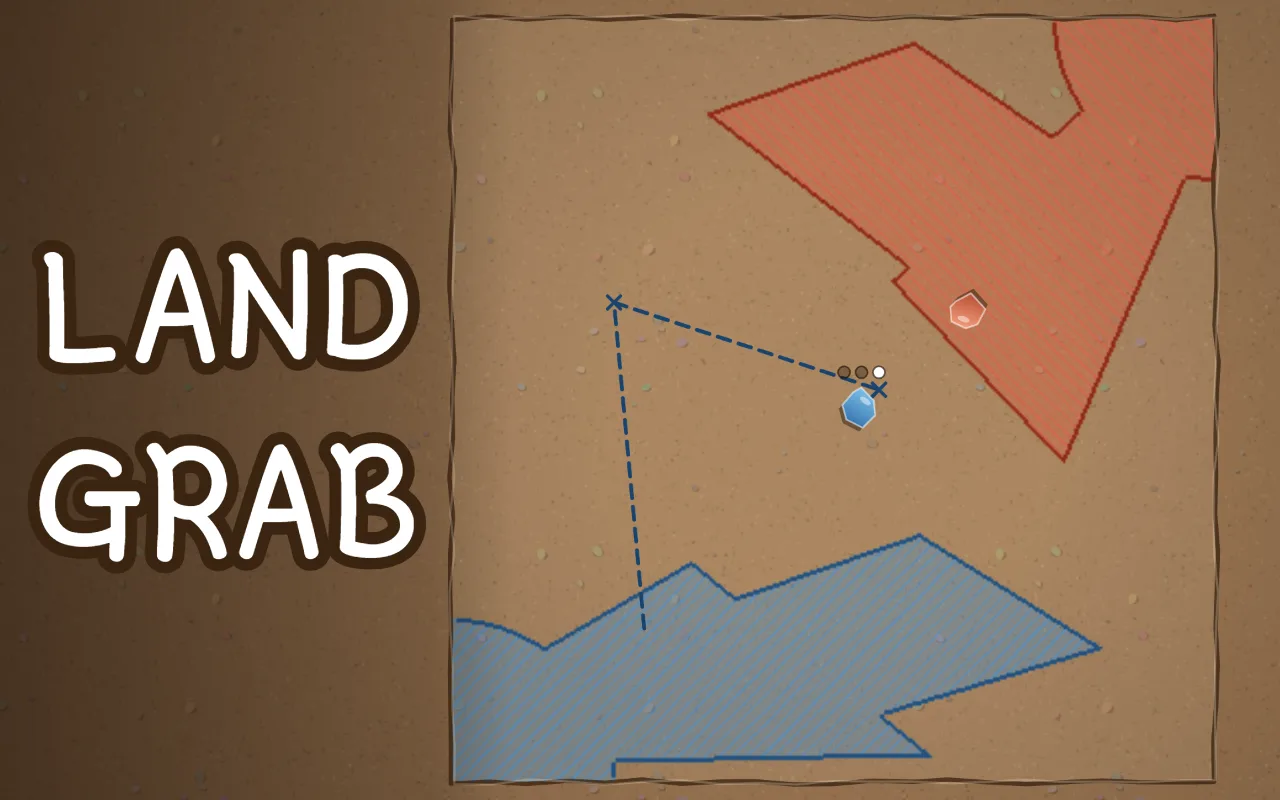
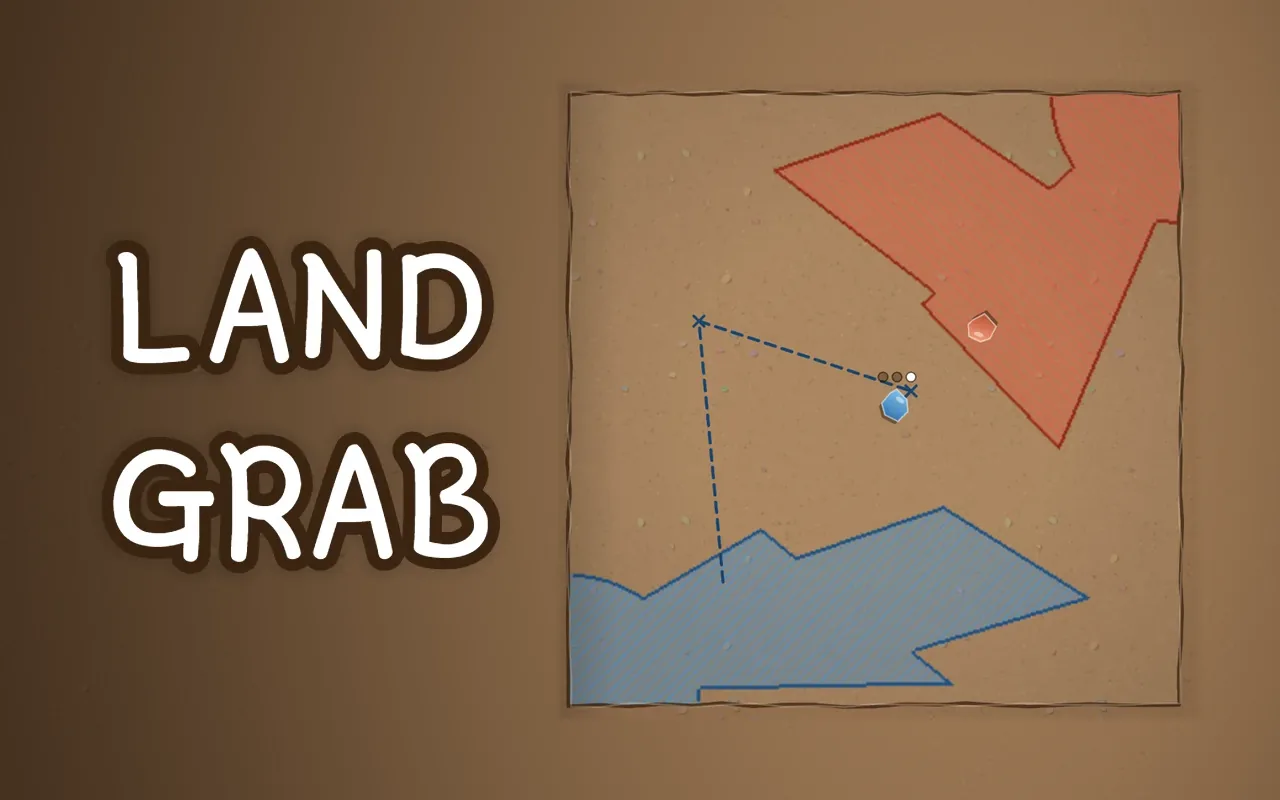
땅따먹기 카드 표지 다시 짜기: 제목이 왼쪽 끝에 붙어 카드(16/11)에서 잘리던 것 — 제목은 원래 크기로 안쪽에, 판은 0.8배로 오른쪽에 (한·영, ?v=2)

diff --git a/games/flash/index.html b/games/flash/index.html
@@ -151,7 +151,7 @@
       <div class="grid">
       <!-- CARDS:start -->
         <a class="mini" href="/games/flash/ttang/">
-          <span class="shot"><img src="/assets/ttang-shot.webp?v=1" alt="흙마당에 그린 네모 판에서 파란 땅과 빨간 땅이 모서리부터 넓어져 있고 파란 사금파리가 점선을 그리며 집으로 돌아가려 하며 땅따먹기 제목이 있다" width="800" height="500" loading="lazy"></span>
+          <span class="shot"><img src="/assets/ttang-shot.webp?v=2" alt="흙마당에 그린 네모 판에서 파란 땅과 빨간 땅이 모서리부터 넓어져 있고 파란 사금파리가 점선을 그리며 집으로 돌아가려 하며 땅따먹기 제목이 있다" width="800" height="500" loading="lazy"></span>
           <span class="mbody"><b>땅따먹기</b><i>1인용·2인용 땅따먹기게임</i></span>
         </a>
         <a class="mini" href="/games/flash/bangwi/">
@@ -208,7 +208,7 @@
 <p>열자마자 시작합니다. 규칙이 한 줄로 끝납니다. 처음은 쉽고 갈수록 어려워집니다. 한 판이 짧아 언제든 그만둘 수 있습니다. 기록은 브라우저에만 남습니다.</p>
 <h2>게임별 한 줄</h2>
 <ul class="flash-lines">
-<li><a href="/games/flash/ttang/"><img src="/assets/ttang-shot.webp?v=1" alt="" width="120" height="75" loading="lazy"><b>땅따먹기</b></a><span>돌을 세 번 튕겨 집으로 돌아오면 지나간 자리가 내 땅이 됩니다. 컴퓨터와 하거나 둘이서 합니다.</span></li>
+<li><a href="/games/flash/ttang/"><img src="/assets/ttang-shot.webp?v=2" alt="" width="120" height="75" loading="lazy"><b>땅따먹기</b></a><span>돌을 세 번 튕겨 집으로 돌아오면 지나간 자리가 내 땅이 됩니다. 컴퓨터와 하거나 둘이서 합니다.</span></li>
 <li><a href="/games/flash/bangwi/"><img src="/assets/bangwi-shot.webp?v=1" alt="" width="120" height="75" loading="lazy"><b>방귀 뀌기</b></a><span>누르고 있는 동안 몰래 방귀를 뀝니다. 앞사람이 뒤돌아볼 때 뀌면 들킵니다.</span></li>
 <li><a href="/games/flash/omok/"><img src="/assets/omok-shot.webp?v=1" alt="" width="120" height="75" loading="lazy"><b>오목</b></a><span>15줄 판에서 다섯 알을 먼저 이으면 이깁니다. 이길 때마다 한 단계씩 올라 9단까지 가고, 둘이서도 둡니다.</span></li>
 <li><a href="/games/flash/baduk/"><img src="/assets/baduk-shot.webp?v=1" alt="" width="120" height="75" loading="lazy"><b>바둑</b></a><span>13줄 바둑판에서 한 판 이길 때마다 한 단계씩 올라 9단까지 갑니다. 둘이서도 둡니다.</span></li>

diff --git a/games/ueno/index.html b/games/ueno/index.html
@@ -135,7 +135,7 @@
       <li><a href="/games/mini/night-study/"><img src="/assets/night-study-shot.webp" alt="" width="96" height="60" loading="lazy"><span class="related-txt"><b>야간자율학습</b><span>폐교 탈출 공포게임</span></span><em>플레이 ▸</em></a></li>
       <li><a href="/games/castaway/"><img src="/assets/castaway-shot.webp" alt="" width="96" height="60" loading="lazy"><span class="related-txt"><b>망망대해</b><span>뗏목 낚시 생존게임</span></span><em>플레이 ▸</em></a></li>
       <li><a href="/games/skyrider/"><img src="/assets/skyrider-shot.webp" alt="" width="96" height="60" loading="lazy"><span class="related-txt"><b>스카이 라이더</b><span>하늘 오토바이 배달게임</span></span><em>플레이 ▸</em></a></li>
-      <li><a href="/games/flash/ttang/"><img src="/assets/ttang-shot.webp" alt="" width="96" height="60" loading="lazy"><span class="related-txt"><b>땅따먹기</b><span>1인용·2인용 땅따먹기게임</span></span><em>플레이 ▸</em></a></li>
+      <li><a href="/games/flash/ttang/"><img src="/assets/ttang-shot.webp?v=2" alt="" width="96" height="60" loading="lazy"><span class="related-txt"><b>땅따먹기</b><span>1인용·2인용 땅따먹기게임</span></span><em>플레이 ▸</em></a></li>
       <li><a href="/games/flash/bangwi/"><img src="/assets/bangwi-shot.webp" alt="" width="96" height="60" loading="lazy"><span class="related-txt"><b>방귀 뀌기</b><span>안 들키게 몰래 뀌는 방귀게임</span></span><em>플레이 ▸</em></a></li>
       </ul>
       <p class="related-more"><a href="/games/">무료게임 전체 목록</a> · <a href="/games/flash/">플래시게임 모음</a> · <a href="/games/mini/">미니게임 모음</a> · <a href="/">오름게임즈 홈</a></p>

diff --git a/games/flash/baduk/index.html b/games/flash/baduk/index.html
@@ -173,7 +173,7 @@
       <ul class="related-list">
       <li><a href="/games/flash/omok/"><img src="/assets/omok-shot.webp" alt="" width="96" height="60" loading="lazy"><span class="related-txt"><b>오목</b><span>혼자·2인용 오목게임</span></span><em>플레이 ▸</em></a></li>
       <li><a href="/games/flash/alkkagi/"><img src="/assets/alkkagi-shot.webp" alt="" width="96" height="60" loading="lazy"><span class="related-txt"><b>알까기</b><span>바둑돌 튕기기 게임</span></span><em>플레이 ▸</em></a></li>
-      <li><a href="/games/flash/ttang/"><img src="/assets/ttang-shot.webp" alt="" width="96" height="60" loading="lazy"><span class="related-txt"><b>땅따먹기</b><span>1인용·2인용 땅따먹기게임</span></span><em>플레이 ▸</em></a></li>
+      <li><a href="/games/flash/ttang/"><img src="/assets/ttang-shot.webp?v=2" alt="" width="96" height="60" loading="lazy"><span class="related-txt"><b>땅따먹기</b><span>1인용·2인용 땅따먹기게임</span></span><em>플레이 ▸</em></a></li>
       <li><a href="/games/fingerkick/"><img src="/assets/fingerkick-shot.webp" alt="" width="96" height="60" loading="lazy"><span class="related-txt"><b>핑거킥</b><span>손가락 축구게임</span></span><em>플레이 ▸</em></a></li>
       <li><a href="/games/oreumkil/"><img src="/assets/oreumkil-shot.webp" alt="" width="96" height="60" loading="lazy"><span class="related-txt"><b>OREUMKIL</b><span>고장난 물리엔진 게임</span></span><em>플레이 ▸</em></a></li>
       <li><a href="/games/immortality/"><img src="/assets/immortality-teaser.webp" alt="" width="96" height="60" loading="lazy"><span class="related-txt"><b>영생의 가격</b><span>내러티브 생존 어드벤처</span></span><em>플레이 ▸</em></a></li>

diff --git a/en/games/flash/baduk/index.html b/en/games/flash/baduk/index.html
@@ -161,7 +161,7 @@
       <ul class="related-list">
       <li><a href="/en/games/flash/omok/"><img src="/assets/omok-shot-en.webp" alt="" width="96" height="60" loading="lazy"><span class="related-txt"><b>GOMOKU</b><span>free Gomoku five in a row game</span></span><em>PLAY ▸</em></a></li>
       <li><a href="/en/games/flash/alkkagi/"><img src="/assets/alkkagi-shot-en.webp" alt="" width="96" height="60" loading="lazy"><span class="related-txt"><b>ALKKAGI</b><span>stone flicking game</span></span><em>PLAY ▸</em></a></li>
-      <li><a href="/en/games/flash/ttang/"><img src="/assets/ttang-shot-en.webp" alt="" width="96" height="60" loading="lazy"><span class="related-txt"><b>LAND GRAB</b><span>Korean land-claiming stone flick game</span></span><em>PLAY ▸</em></a></li>
+      <li><a href="/en/games/flash/ttang/"><img src="/assets/ttang-shot-en.webp?v=2" alt="" width="96" height="60" loading="lazy"><span class="related-txt"><b>LAND GRAB</b><span>Korean land-claiming stone flick game</span></span><em>PLAY ▸</em></a></li>
       <li><a href="/en/games/fingerkick/"><img src="/assets/fingerkick-shot-en.webp" alt="" width="96" height="60" loading="lazy"><span class="related-txt"><b>FINGER KICK</b><span>finger soccer game</span></span><em>PLAY ▸</em></a></li>
       <li><a href="/en/games/oreumkil/"><img src="/assets/oreumkil-shot.webp" alt="" width="96" height="60" loading="lazy"><span class="related-txt"><b>OREUMKIL</b><span>broken physics engine game</span></span><em>PLAY ▸</em></a></li>
       <li><a href="/en/games/immortality/"><img src="/assets/immortality-teaser.webp" alt="" width="96" height="60" loading="lazy"><span class="related-txt"><b>The Price of Immortality</b><span>narrative survival adventure</span></span><em>PLAY ▸</em></a></li>

diff --git a/games/flash/catmobile/index.html b/games/flash/catmobile/index.html
@@ -132,7 +132,7 @@
       <ul class="related-list">
       <li><a href="/games/flash/boa/"><img src="/assets/boa-shot.webp" alt="" width="96" height="60" loading="lazy"><span class="related-txt"><b>보아뱀</b><span>코끼리 삼키는 뱀게임</span></span><em>플레이 ▸</em></a></li>
       <li><a href="/games/mini/shibavet/"><img src="/assets/shibavet-shot.webp" alt="" width="96" height="60" loading="lazy"><span class="related-txt"><b>시바 병원 가는 날</b><span>시바견 잡기 게임</span></span><em>플레이 ▸</em></a></li>
-      <li><a href="/games/flash/ttang/"><img src="/assets/ttang-shot.webp" alt="" width="96" height="60" loading="lazy"><span class="related-txt"><b>땅따먹기</b><span>1인용·2인용 땅따먹기게임</span></span><em>플레이 ▸</em></a></li>
+      <li><a href="/games/flash/ttang/"><img src="/assets/ttang-shot.webp?v=2" alt="" width="96" height="60" loading="lazy"><span class="related-txt"><b>땅따먹기</b><span>1인용·2인용 땅따먹기게임</span></span><em>플레이 ▸</em></a></li>
       <li><a href="/games/flash/bangwi/"><img src="/assets/bangwi-shot.webp" alt="" width="96" height="60" loading="lazy"><span class="related-txt"><b>방귀 뀌기</b><span>안 들키게 몰래 뀌는 방귀게임</span></span><em>플레이 ▸</em></a></li>
       <li><a href="/games/mini/oreumnyang/"><img src="/assets/oreumnyang-shot.webp" alt="" width="96" height="60" loading="lazy"><span class="related-txt"><b>오름냥</b><span>고양이 3매치 퍼즐게임</span></span><em>플레이 ▸</em></a></li>
       <li><a href="/games/ueno/"><i class="related-noimg"></i><span class="related-txt"><b>우에노짱</b><span>착한 양아치 커플 3D 공원 어드벤처</span></span><em>플레이 ▸</em></a></li>

diff --git a/games/flash/omok/index.html b/games/flash/omok/index.html
@@ -164,7 +164,7 @@
       <ul class="related-list">
       <li><a href="/games/flash/baduk/"><img src="/assets/baduk-shot.webp" alt="" width="96" height="60" loading="lazy"><span class="related-txt"><b>바둑</b><span>혼자 두는 바둑게임</span></span><em>플레이 ▸</em></a></li>
       <li><a href="/games/flash/alkkagi/"><img src="/assets/alkkagi-shot.webp" alt="" width="96" height="60" loading="lazy"><span class="related-txt"><b>알까기</b><span>바둑돌 튕기기 게임</span></span><em>플레이 ▸</em></a></li>
-      <li><a href="/games/flash/ttang/"><img src="/assets/ttang-shot.webp" alt="" width="96" height="60" loading="lazy"><span class="related-txt"><b>땅따먹기</b><span>1인용·2인용 땅따먹기게임</span></span><em>플레이 ▸</em></a></li>
+      <li><a href="/games/flash/ttang/"><img src="/assets/ttang-shot.webp?v=2" alt="" width="96" height="60" loading="lazy"><span class="related-txt"><b>땅따먹기</b><span>1인용·2인용 땅따먹기게임</span></span><em>플레이 ▸</em></a></li>
       <li><a href="/games/fingerkick/"><img src="/assets/fingerkick-shot.webp" alt="" width="96" height="60" loading="lazy"><span class="related-txt"><b>핑거킥</b><span>손가락 축구게임</span></span><em>플레이 ▸</em></a></li>
       <li><a href="/games/saab/"><img src="/assets/saab-shot.webp" alt="" width="96" height="60" loading="lazy"><span class="related-txt"><b>S.A.A.B.</b><span>3D FPS 슈팅게임</span></span><em>플레이 ▸</em></a></li>
       <li><a href="/games/making-kimchi/"><img src="/assets/making-kimchi-shot.webp" alt="" width="96" height="60" loading="lazy"><span class="related-txt"><b>메이킹김치</b><span>김치가게 경영 요리게임</span></span><em>플레이 ▸</em></a></li>

diff --git a/games/mini/knife-duel-v7/index.html b/games/mini/knife-duel-v7/index.html
@@ -117,7 +117,7 @@
       <li><a href="/games/saab/"><img src="/assets/saab-shot.webp" alt="" width="96" height="60" loading="lazy"><span class="related-txt"><b>S.A.A.B.</b><span>3D FPS 슈팅게임</span></span><em>플레이 ▸</em></a></li>
       <li><a href="/games/mini/shibavet/"><img src="/assets/shibavet-shot.webp" alt="" width="96" height="60" loading="lazy"><span class="related-txt"><b>시바 병원 가는 날</b><span>시바견 잡기 게임</span></span><em>플레이 ▸</em></a></li>
       <li><a href="/games/ueno/"><i class="related-noimg"></i><span class="related-txt"><b>우에노짱</b><span>착한 양아치 커플 3D 공원 어드벤처</span></span><em>플레이 ▸</em></a></li>
-      <li><a href="/games/flash/ttang/"><img src="/assets/ttang-shot.webp" alt="" width="96" height="60" loading="lazy"><span class="related-txt"><b>땅따먹기</b><span>1인용·2인용 땅따먹기게임</span></span><em>플레이 ▸</em></a></li>
+      <li><a href="/games/flash/ttang/"><img src="/assets/ttang-shot.webp?v=2" alt="" width="96" height="60" loading="lazy"><span class="related-txt"><b>땅따먹기</b><span>1인용·2인용 땅따먹기게임</span></span><em>플레이 ▸</em></a></li>
       <li><a href="/games/flash/catmobile/"><img src="/assets/catmobile-shot.webp" alt="" width="96" height="60" loading="lazy"><span class="related-txt"><b>고양이용 게임</b><span>고양이·아기 터치게임</span></span><em>플레이 ▸</em></a></li>
       <li><a href="/games/coinwash/"><img src="/assets/coinwash-shot.webp" alt="" width="96" height="60" loading="lazy"><span class="related-txt"><b>코인빨래방</b><span>빨래방 방치형 경영게임</span></span><em>플레이 ▸</em></a></li>
       </ul>

diff --git a/en/games/flash/omok/index.html b/en/games/flash/omok/index.html
@@ -152,7 +152,7 @@
       <ul class="related-list">
       <li><a href="/en/games/flash/baduk/"><img src="/assets/baduk-shot-en.webp" alt="" width="96" height="60" loading="lazy"><span class="related-txt"><b>BADUK</b><span>free Go board game</span></span><em>PLAY ▸</em></a></li>
       <li><a href="/en/games/flash/alkkagi/"><img src="/assets/alkkagi-shot-en.webp" alt="" width="96" height="60" loading="lazy"><span class="related-txt"><b>ALKKAGI</b><span>stone flicking game</span></span><em>PLAY ▸</em></a></li>
-      <li><a href="/en/games/flash/ttang/"><img src="/assets/ttang-shot-en.webp" alt="" width="96" height="60" loading="lazy"><span class="related-txt"><b>LAND GRAB</b><span>Korean land-claiming stone flick game</span></span><em>PLAY ▸</em></a></li>
+      <li><a href="/en/games/flash/ttang/"><img src="/assets/ttang-shot-en.webp?v=2" alt="" width="96" height="60" loading="lazy"><span class="related-txt"><b>LAND GRAB</b><span>Korean land-claiming stone flick game</span></span><em>PLAY ▸</em></a></li>
       <li><a href="/en/games/fingerkick/"><img src="/assets/fingerkick-shot-en.webp" alt="" width="96" height="60" loading="lazy"><span class="related-txt"><b>FINGER KICK</b><span>finger soccer game</span></span><em>PLAY ▸</em></a></li>
       <li><a href="/en/games/saab/"><img src="/assets/saab-shot.webp" alt="" width="96" height="60" loading="lazy"><span class="related-txt"><b>S.A.A.B.</b><span>3D first-person shooter</span></span><em>PLAY ▸</em></a></li>
       <li><a href="/en/games/making-kimchi/"><img src="/assets/making-kimchi-shot.webp" alt="" width="96" height="60" loading="lazy"><span class="related-txt"><b>MAKING KIMCHI</b><span>kimchi cooking shop sim</span></span><em>PLAY ▸</em></a></li>

diff --git a/games/mini/oreumnyang/index.html b/games/mini/oreumnyang/index.html
@@ -117,7 +117,7 @@
       <li><a href="/games/lulu/"><img src="/assets/lulu-shot.webp" alt="" width="96" height="60" loading="lazy"><span class="related-txt"><b>루루냥의 제주살이</b><span>제주 3D 고양이 생활게임</span></span><em>플레이 ▸</em></a></li>
       <li><a href="/games/mini/pixl/"><img src="/assets/pixl-shot.webp" alt="" width="96" height="60" loading="lazy"><span class="related-txt"><b>PIXL</b><span>직소퍼즐 게임</span></span><em>플레이 ▸</em></a></li>
       <li><a href="/games/mini/crispy/"><img src="/assets/crispy-shot.webp" alt="" width="96" height="60" loading="lazy"><span class="related-txt"><b>CRISPY</b><span>육각 크래커 잇기 퍼즐</span></span><em>플레이 ▸</em></a></li>
-      <li><a href="/games/flash/ttang/"><img src="/assets/ttang-shot.webp" alt="" width="96" height="60" loading="lazy"><span class="related-txt"><b>땅따먹기</b><span>1인용·2인용 땅따먹기게임</span></span><em>플레이 ▸</em></a></li>
+      <li><a href="/games/flash/ttang/"><img src="/assets/ttang-shot.webp?v=2" alt="" width="96" height="60" loading="lazy"><span class="related-txt"><b>땅따먹기</b><span>1인용·2인용 땅따먹기게임</span></span><em>플레이 ▸</em></a></li>
       <li><a href="/games/flash/omok/"><img src="/assets/omok-shot.webp" alt="" width="96" height="60" loading="lazy"><span class="related-txt"><b>오목</b><span>혼자·2인용 오목게임</span></span><em>플레이 ▸</em></a></li>
       </ul>
       <p class="related-more"><a href="/games/">무료게임 전체 목록</a> · <a href="/games/flash/">플래시게임 모음</a> · <a href="/games/mini/">미니게임 모음</a> · <a href="/">오름게임즈 홈</a></p>

diff --git a/en/games/flash/catmobile/index.html b/en/games/flash/catmobile/index.html
@@ -132,7 +132,7 @@
       <ul class="related-list">
       <li><a href="/en/games/flash/boa/"><img src="/assets/boa-shot-en.webp" alt="" width="96" height="60" loading="lazy"><span class="related-txt"><b>BOA</b><span>elephant-swallowing snake game</span></span><em>PLAY ▸</em></a></li>
       <li><a href="/en/games/mini/shibavet/"><img src="/assets/shibavet-shot-en.webp" alt="" width="96" height="60" loading="lazy"><span class="related-txt"><b>SHIBA VET DAY</b><span>shiba dog catching game</span></span><em>PLAY ▸</em></a></li>
-      <li><a href="/en/games/flash/ttang/"><img src="/assets/ttang-shot-en.webp" alt="" width="96" height="60" loading="lazy"><span class="related-txt"><b>LAND GRAB</b><span>Korean land-claiming stone flick game</span></span><em>PLAY ▸</em></a></li>
+      <li><a href="/en/games/flash/ttang/"><img src="/assets/ttang-shot-en.webp?v=2" alt="" width="96" height="60" loading="lazy"><span class="related-txt"><b>LAND GRAB</b><span>Korean land-claiming stone flick game</span></span><em>PLAY ▸</em></a></li>
       <li><a href="/en/games/flash/bangwi/"><img src="/assets/bangwi-shot-en.webp" alt="" width="96" height="60" loading="lazy"><span class="related-txt"><b>THE FART</b><span>sneaky fart game</span></span><em>PLAY ▸</em></a></li>
       <li><a href="/en/games/mini/oreumnyang/"><img src="/assets/oreumnyang-shot.webp" alt="" width="96" height="60" loading="lazy"><span class="related-txt"><b>Oreumnyang</b><span>cat match-3 puzzle game</span></span><em>PLAY ▸</em></a></li>
       <li><a href="/en/games/ueno/"><i class="related-noimg"></i><span class="related-txt"><b>UENO ZZANG</b><span>3D park adventure brawler</span></span><em>PLAY ▸</em></a></li>

diff --git a/en/games/mini/knife-duel-v7/index.html b/en/games/mini/knife-duel-v7/index.html
@@ -114,7 +114,7 @@
       <li><a href="/en/games/saab/"><img src="/assets/saab-shot.webp" alt="" width="96" height="60" loading="lazy"><span class="related-txt"><b>S.A.A.B.</b><span>3D first-person shooter</span></span><em>PLAY ▸</em></a></li>
       <li><a href="/en/games/mini/shibavet/"><img src="/assets/shibavet-shot-en.webp" alt="" width="96" height="60" loading="lazy"><span class="related-txt"><b>SHIBA VET DAY</b><span>shiba dog catching game</span></span><em>PLAY ▸</em></a></li>
       <li><a href="/en/games/ueno/"><i class="related-noimg"></i><span class="related-txt"><b>UENO ZZANG</b><span>3D park adventure brawler</span></span><em>PLAY ▸</em></a></li>
-      <li><a href="/en/games/flash/ttang/"><img src="/assets/ttang-shot-en.webp" alt="" width="96" height="60" loading="lazy"><span class="related-txt"><b>LAND GRAB</b><span>Korean land-claiming stone flick game</span></span><em>PLAY ▸</em></a></li>
+      <li><a href="/en/games/flash/ttang/"><img src="/assets/ttang-shot-en.webp?v=2" alt="" width="96" height="60" loading="lazy"><span class="related-txt"><b>LAND GRAB</b><span>Korean land-claiming stone flick game</span></span><em>PLAY ▸</em></a></li>
       <li><a href="/en/games/flash/catmobile/"><img src="/assets/catmobile-shot-en.webp" alt="" width="96" height="60" loading="lazy"><span class="related-txt"><b>GAME FOR CAT</b><span>tap game for cats and toddlers</span></span><em>PLAY ▸</em></a></li>
       <li><a href="/en/games/coinwash/"><img src="/assets/coinwash-shot-en.webp" alt="" width="96" height="60" loading="lazy"><span class="related-txt"><b>COIN LAUNDRY 24</b><span>idle laundromat game</span></span><em>PLAY ▸</em></a></li>
       </ul>

diff --git a/en/games/ueno/index.html b/en/games/ueno/index.html
@@ -134,7 +134,7 @@
       <li><a href="/en/games/mini/night-study/"><img src="/assets/night-study-shot.webp" alt="" width="96" height="60" loading="lazy"><span class="related-txt"><b>NIGHT STUDY</b><span>school horror escape game</span></span><em>PLAY ▸</em></a></li>
       <li><a href="/en/games/castaway/"><img src="/assets/castaway-shot-en.webp" alt="" width="96" height="60" loading="lazy"><span class="related-txt"><b>OPEN SEA</b><span>raft fishing survival game</span></span><em>PLAY ▸</em></a></li>
       <li><a href="/en/games/skyrider/"><img src="/assets/skyrider-shot-en.webp" alt="" width="96" height="60" loading="lazy"><span class="related-txt"><b>SKY RIDER</b><span>flying motorbike delivery game</span></span><em>PLAY ▸</em></a></li>
-      <li><a href="/en/games/flash/ttang/"><img src="/assets/ttang-shot-en.webp" alt="" width="96" height="60" loading="lazy"><span class="related-txt"><b>LAND GRAB</b><span>Korean land-claiming stone flick game</span></span><em>PLAY ▸</em></a></li>
+      <li><a href="/en/games/flash/ttang/"><img src="/assets/ttang-shot-en.webp?v=2" alt="" width="96" height="60" loading="lazy"><span class="related-txt"><b>LAND GRAB</b><span>Korean land-claiming stone flick game</span></span><em>PLAY ▸</em></a></li>
       <li><a href="/en/games/flash/bangwi/"><img src="/assets/bangwi-shot-en.webp" alt="" width="96" height="60" loading="lazy"><span class="related-txt"><b>THE FART</b><span>sneaky fart game</span></span><em>PLAY ▸</em></a></li>
       </ul>
       <p class="related-more"><a href="/en/games/">All free games</a> · <a href="/en/games/mini/">Mini games</a> · <a href="/en/">Oreum Games home</a></p>
